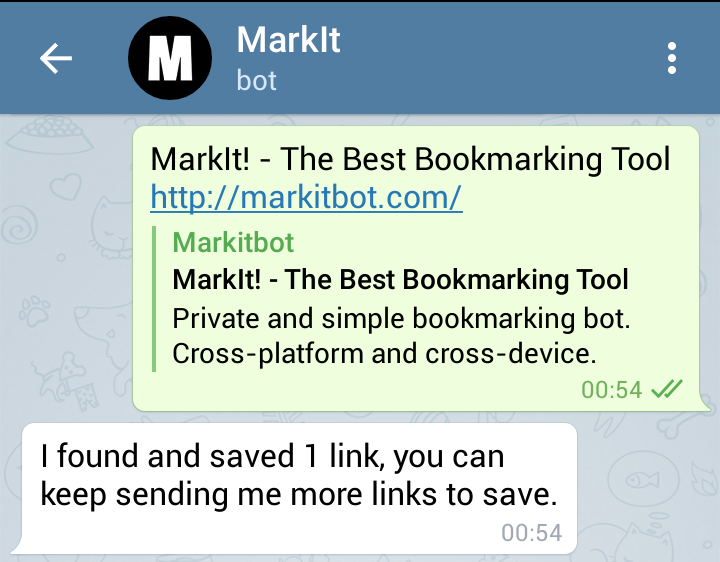
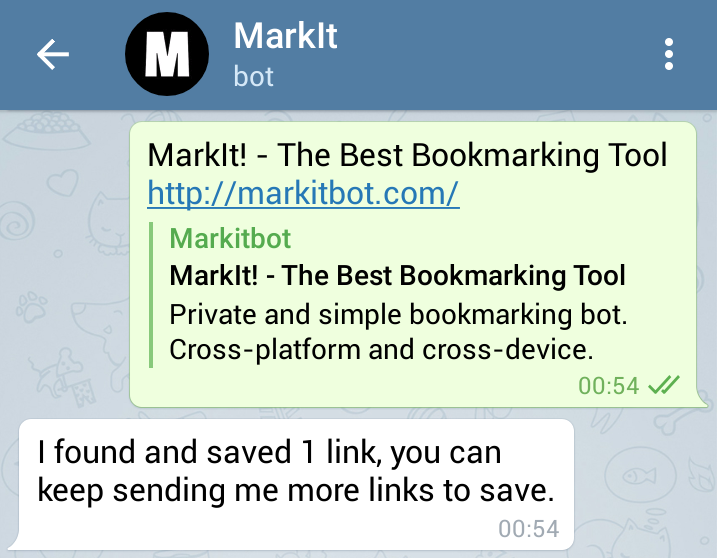
change to screenshots and sizes

diff --git a/index.html b/index.html
@@ -38,21 +38,22 @@
 				</a> (leads to Telegram chat)				
 			</div> 
 
-			<h2>Saving your bookmarks</h2>
+			<h2>Saving bookmarks</h2>
 			<p><u>Option 1: Copy and paste the link into the Telegram chat with MarkIt!</u></p>
-			<img src = "save-bookmarks.png" alt = "Save Bookmarks" style = "width:400px;">	
+			<img src = "save-bookmarks.png" alt = "Save Bookmarks" style = "width:300px;">	
 			<p><u>Option 2 (on mobile): Share to Telegram chat with MarkIt!</u></p>						
-			<img src = "share-screen.png" alt = "Share via Telegram" style = "width:400px;"></div>
-			<img src = "select-chat.png" alt = "Select MarkIt chat" style = "width:400px;">
-			<h2>Searching your bookmarks</h2>
-			
-			<img src = "search-bookmarks.png" alt = "Search Bookmarks" style = "width:400px;">
-				
-			<h2>Deleting your bookmarks</h2>
-			<img src = "delete-bookmarks.png" alt = "Delete Bookmarks" style = "width:400px;">
+			<img src = "share-screen.png" alt = "Share via Telegram" style = "width:300px;">
+			<img src = "select-chat.png" alt = "Select MarkIt chat" style = "width:300px;">
 
-			<h2>Sharing your bookmarks with your friends</h2>
-			<img src = "share-bookmarks.png" alt = "Share Bookmarks" style = "width:400px;">
+			<h2>Searching bookmarks</h2>
+			
+			<img src = "search-bookmarks.png" alt = "Search Bookmarks" style = "width:300px;">
+				
+			<h2>Deleting bookmarks</h2>
+			<img src = "delete-bookmarks.png" alt = "Delete Bookmarks" style = "width:300px;">
+
+			<h2>Sharing bookmarks with your friends</h2>
+			<img src = "share-bookmarks.png" alt = "Share Bookmarks" style = "width:300px;">
 
 			<h2>Sorting into categories - Coming Soon!</h2>
 

diff --git a/style.css b/style.css
@@ -31,73 +31,6 @@ body {
 	padding: 15px;
 }
 
-.bubble_left 
-{
-position: relative;
-width: 250px;
-padding: 10px 10px 10px 10px;
-background: #F2F2F2;
--webkit-border-radius: 10px;
--moz-border-radius: 10px;
-border-radius: 10px;
-clear:both;
-margin: 5px;
-word-wrap:break-word;
-}
-
-.bubble_left:after 
-{
-content: '';
-position: absolute;
-border-style: solid;
-border-width: 15px 15px 15px 0;
-border-color: transparent #F2F2F2;
-display: block;
-width: 0;
-z-index: 1;
-margin-top: -15px;
-left: -15px;
-top: 50%;
-}
-
-.bubble_right 
-{
-position: relative;
-float: right;
-width: 250px;
-padding: 10px 10px 10px 10px;
-background: #CCFFCC;
--webkit-border-radius: 10px;
--moz-border-radius: 10px;
-border-radius: 10px;
-margin-bottom: 5px;
-word-wrap:break-word;
-display:inline-block;
-
-}
-.bubble_right:after 
-{
-content: '';
-position: absolute;
-border-style: solid;
-border-width: 15px 0 15px 15px;
-border-color: transparent #CCFFCC;
-display: block;
-width: 0;
-z-index: 1;
-margin-top: -15px;
-right: -15px;
-top: 50%;
-}
-
-.chat {
-	max-width: 500px;
-	width:100%;
-	padding: 10px 10px 10px 10px;
-  overflow:hidden;
-	
-}
-
 .btn {
   background: #3498db;
   background-image: -webkit-linear-gradient(top, #3498db, #2980b9);
